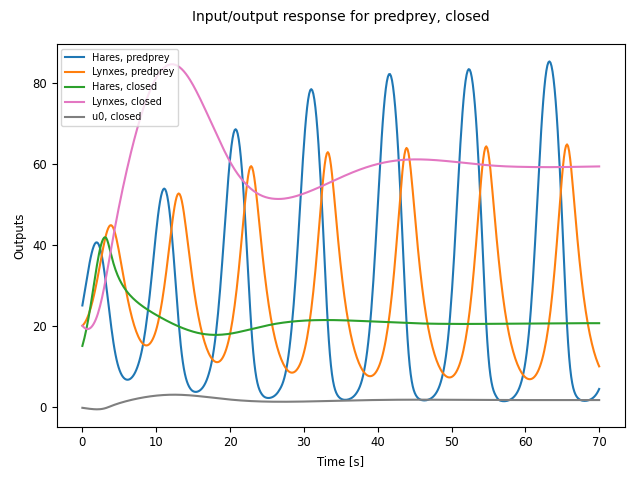
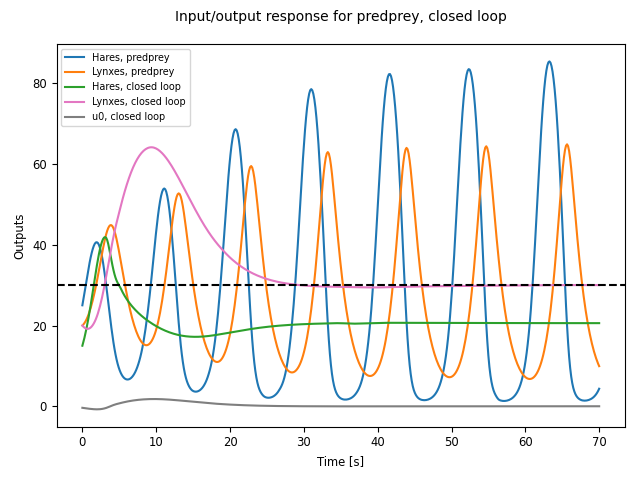
fix bug in predprey controller (was generating wrong steady state)

diff --git a/doc/iosys.rst b/doc/iosys.rst
@@ -236,7 +236,8 @@ constructed using :func:`nlsys` with no update function:
 .. testcode:: predprey
 
   def output(t, x, u, params):
-      return -K @ (u[1:] - xeq) + kf * (u[0] - ueq)
+      Ld, x, ye = u[0], u[1:], xeq[1]
+      return ueq - K @ (x - xeq) + kf * (Ld - ye)
 
   controller = ct.nlsys(
       None, output,
@@ -259,7 +260,7 @@ To connect the controller to the predatory-prey model, we use the
     ],
     inplist=['control.Ld'], inputs='Ld',
     outlist=['predprey.Hares', 'predprey.Lynxes', 'control.y[0]'],
-    outputs=['Hares', 'Lynxes', 'u0'], name='closed'
+    outputs=['Hares', 'Lynxes', 'u0'], name='closed loop'
   )
 
 Finally, we simulate the closed loop system:
@@ -267,8 +268,11 @@ Finally, we simulate the closed loop system:
 .. testcode:: predprey
 
   # Simulate the system
-  resp = ct.input_output_response(closed, timepts, 30, [15, 20])
-  resp.plot(plot_inputs=False, overlay_signals=True, legend_loc='upper left')
+  Ld = 30
+  resp = ct.input_output_response(closed, timepts, U=Ld, X0=[15, 20])
+  cplt = resp.plot(
+      plot_inputs=False, overlay_signals=True, legend_loc='upper left')
+  cplt.axes[0, 0].axhline(Ld, linestyle='--', color='black')
 
 .. testcode:: predprey
    :hide:
